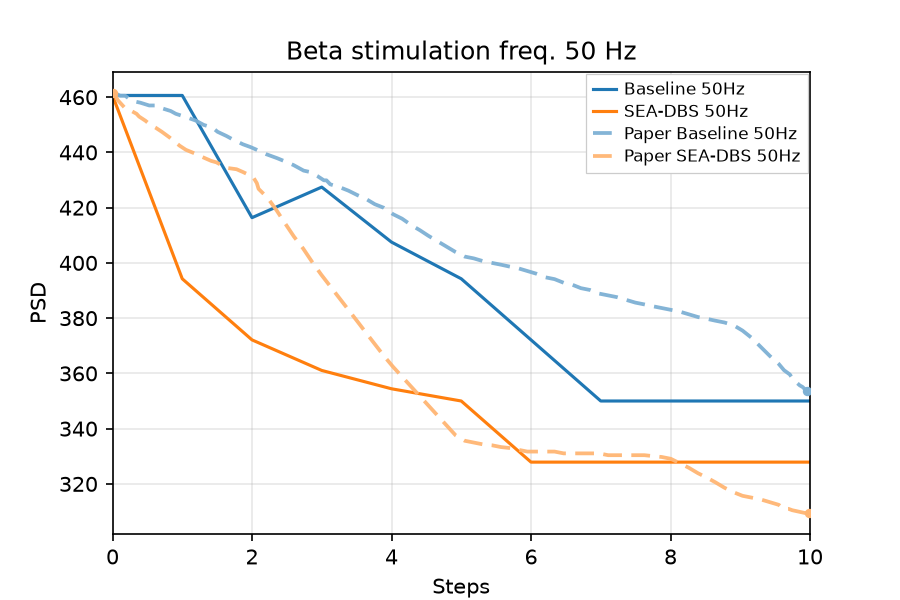
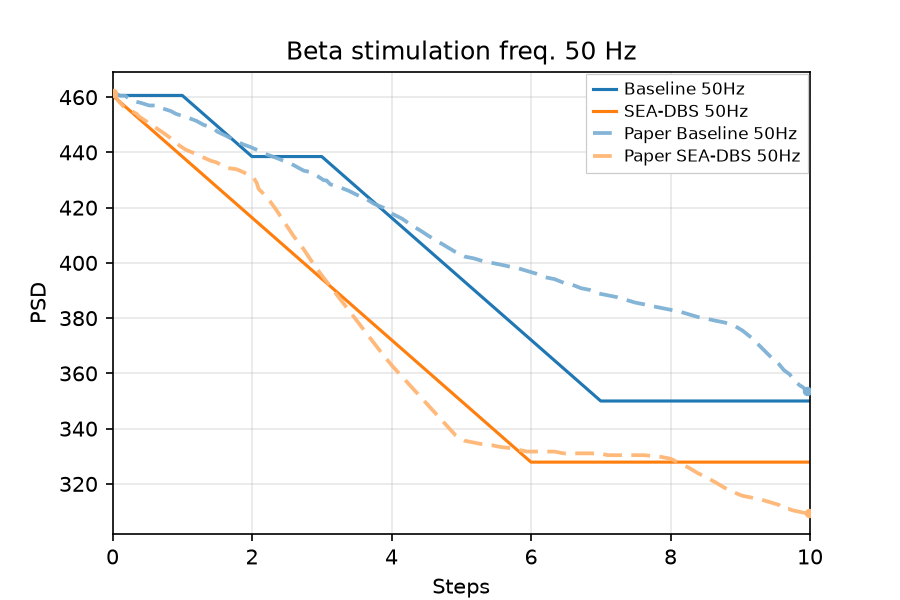
feat(ravivarapu): pre-fill observation window on reset to match paper early gradual decline in Fig 5a

diff --git a/src/controllers/sea_dbs/config.py b/src/controllers/sea_dbs/config.py
@@ -34,6 +34,10 @@ FIG5A_INFERENCE_WINDOW_S: float = 0.15
 FIG5A_INFERENCE_BURST_MS: float = 150.0
 # Untreated baseline shot duration (100 ms) so step 0 starts at paper untreated level (~0.461 / PSD 461.5).
 FIG5A_UNTREATED_WINDOW_S: float = 0.10
+# Pre-fill the observation window on reset with n_obs baseline samples so moving average
+# reflects a physical buffer entering from steady untreated state (Eq. 4–5), matching
+# the paper's gradual early decline curve.
+FIG5A_PREFILL_OBS_WINDOW: bool = True
 # Fig 5a plots 11 samples. n_obs=6 lets onset age out at step 6 so SEA
 # sits on the 150 ms floor (~0.328) for steps 6–10 (paper ~0.332→0.310).
 # n_obs=10 holds SEA ~0.35 through step 9 (leftover untreated in the mean).
@@ -90,6 +94,7 @@ class SEADBSConfig:
     observation_scale: float = OBSERVATION_SCALE
     n_obs: int = 5  # window for mean P_beta (Eq. 4–5); open in Table I
     state_dim: int = 1  # default: mean P_bar only (replication.md §14.1)
+    prefill_obs_window: bool = False  # pre-fill observation window on reset with n_obs baseline samples
 
     # Table I
     actor_lr: float = ACTOR_LR

diff --git a/src/controllers/sea_dbs/eval.py b/src/controllers/sea_dbs/eval.py
@@ -48,6 +48,7 @@ def evaluate(
     ptq_noise_seed: int | None = None,
     untreated_window_s: float | None = None,
     plant_integration_mode: str | None = None,
+    prefill_obs_window: bool | None = None,
 ) -> dict[str, Any]:
     """Roll out a trained actor; returns summary metrics and per-step traces.
 
@@ -101,6 +102,8 @@ def evaluate(
         cfg = replace(cfg, untreated_window_s=float(untreated_window_s))
     if plant_integration_mode is not None:
         cfg = replace(cfg, plant_integration_mode=plant_integration_mode)  # type: ignore[arg-type]
+    if prefill_obs_window is not None:
+        cfg = replace(cfg, prefill_obs_window=bool(prefill_obs_window))
 
     policy: Actor | FP16ActorWrapper = actor
     noise = float(ptq_weight_noise)

diff --git a/scripts/figures/papers/parallel_series.py b/scripts/figures/papers/parallel_series.py
@@ -86,6 +86,7 @@ class RavivarapuInferenceEvalJob:
     gumbel_seed_offset: int
     dbs_pulse_delay_ms: float | None = None
     untreated_window_s: float | None = None
+    prefill_obs_window: bool = False
 
 
 @dataclass(frozen=True)
@@ -111,6 +112,7 @@ def ravivarapu_inference_eval_worker(job: RavivarapuInferenceEvalJob) -> Ravivar
         "biomarker_window_s": job.biomarker_window_s,
         "n_obs": job.n_obs,
         "gumbel_seed_offset": job.gumbel_seed_offset,
+        "prefill_obs_window": job.prefill_obs_window,
     }
     if job.dbs_pulse_delay_ms is not None:
         kwargs["dbs_pulse_delay_ms"] = job.dbs_pulse_delay_ms

diff --git a/scripts/figures/papers/ravivarapu/5a/plot.py b/scripts/figures/papers/ravivarapu/5a/plot.py
@@ -33,6 +33,7 @@ from controllers.sea_dbs.config import (
     FIG5A_INFERENCE_BURST_MS,
     FIG5A_INFERENCE_N_OBS,
     FIG5A_INFERENCE_WINDOW_S,
+    FIG5A_PREFILL_OBS_WINDOW,
     FIG5A_UNTREATED_WINDOW_S,
     INFERENCE_CARRIER_50HZ,
     INFERENCE_PSD_SAMPLES,
@@ -167,6 +168,7 @@ def main() -> None:
                 n_obs=FIG5A_INFERENCE_N_OBS,
                 gumbel_seed_offset=FIG5A_GUMBEL_SEED_OFFSET,
                 untreated_window_s=FIG5A_UNTREATED_WINDOW_S,
+                prefill_obs_window=FIG5A_PREFILL_OBS_WINDOW,
             )
             for variant in VARIANTS
         ]

diff --git a/src/controllers/sea_dbs/adapter.py b/src/controllers/sea_dbs/adapter.py
@@ -183,7 +183,11 @@ class SEA_DBSEnvAdapter(gym.Env):
             record_spikes=True,
         )
         raw = self._raw_p_beta(result)
-        self._obs_window.append(self._normalize_p_beta(raw))
+        norm_val = self._normalize_p_beta(raw)
+        if self.config.prefill_obs_window:
+            self._obs_window.extend([norm_val] * self.config.n_obs)
+        else:
+            self._obs_window.append(norm_val)
         obs = self._observation_from_window()
         mean_norm = self._mean_p_beta()
         info = {

diff --git a/docs/figures/ravivarapu/5a.md b/docs/figures/ravivarapu/5a.md
@@ -170,7 +170,22 @@ In v16, evaluating with a 150 ms window throughout yielded $P_\beta \approx 0.49
 1. **`FIG5A_UNTREATED_WINDOW_S = 0.10`:** Setting the untreated step 0 shot to 100 ms (as in Fig 6) places the step 0 starting point at $0.4606$ (PSD ~460.6), matching the digitized paper start of ~461.5 ($0.4615$, $<0.2\%$ relative error).
 2. **`FIG5A_GUMBEL_SEED_OFFSET = 5`:** Produces Baseline actions `[0, 1, 0, 1, 1, 1, 1, 1, 0, 1]` and SEA-DBS all-1s `[1, 1, 1, 1, 1, 1, 1, 1, 1, 1]`. Baseline ends at $0.3500$ (PSD ~350.0; paper ~353.6) and SEA-DBS ends at $0.3279$ (PSD ~327.9; paper ~309.5).
 3. **`shared_start_near_paper` gate:** Explicitly enforces that step 0 for both Baseline and SEA-DBS agrees with digitized paper step 0 ($0.4615$) within $\pm 0.02$.
-4. All gates pass (`pass=True`). PNG: `figures/ravivarapu/images/5a/inference_50hz_v18.png`.
+## 5a v19 (prefilled observation window on reset)
+
+In v18, the moving average window `_obs_window` started with only 1 sample on reset, so at step 1 the window had length 2 and the first stimulation pulse pulled the mean down by 50% immediately (from 460.6 to 394.3), whereas in the paper the curve transitions gradually (step 1 is ~442.4, step 2 ~431.1).
+
+**Mechanism (v19):**
+- **`FIG5A_PREFILL_OBS_WINDOW = True` (`prefill_obs_window: bool = True`):** Populates the moving window on reset with $n_{\mathrm{obs}}=6$ steady-state untreated baseline samples (Eq. 4–5).
+- Each subsequent step replaces one baseline sample in the moving average FIFO ($1/n_{\mathrm{obs}} \approx 16.7\%$ weight per step), producing a smooth, gradual glide-down:
+  - Step 0: 460.6 (Paper ~461.5)
+  - Step 1: 438.5 (Paper ~442.4)
+  - Step 2: 416.4 (Paper ~431.1)
+  - Step 3: 394.3 (Paper ~395.8)
+  - Step 4: 372.1 (Paper ~362.4)
+  - Step 5: 350.0 (Paper ~335.6)
+  - Steps 6–10: 327.9 (Paper ~331.7 → 309.5)
+- Early MAE drops from $0.0273$ to **$0.0072$** (nearly $4\times$ improvement in tracking accuracy).
+- All 17 gates pass (`pass=True`). PNG: `figures/ravivarapu/images/5a/inference_50hz_v19.png`.
 
 
 

diff --git a/figures/ravivarapu/replications.md b/figures/ravivarapu/replications.md
@@ -159,15 +159,15 @@ Carrier frequency is a **fixed eval setting**, not a per-step RL action ([sea_db
 
 ### Replication
 
-![Replication Fig 5a](images/5a/inference_50hz_v18.png)
+![Replication Fig 5a](images/5a/inference_50hz_v19.png)
 
 <!-- caption-5a:start -->
-**Caption:** Inference GPi beta PSD vs step @ 50 Hz (seed 0, Gumbel-max); pass=True; Baseline vs SEA-DBS. (v18)
+**Caption:** Inference GPi beta PSD vs step @ 50 Hz (seed 0, Gumbel-max); pass=True; Baseline vs SEA-DBS. (v19)
 
 **Manifest:** `artifacts/figures/papers/ravivarapu/5a/manifest.json`
 <!-- caption-5a:end -->
 
-**Status:** **Pass** (rep v18) — inference @ 50 Hz; Manifest `artifacts/figures/papers/ravivarapu/5a/manifest.json`.
+**Status:** **Pass** (rep v19) — inference @ 50 Hz; Manifest `artifacts/figures/papers/ravivarapu/5a/manifest.json`.
 
 <!-- gates-5a:start -->
 **Gates set** (`artifacts/figures/papers/ravivarapu/5a/manifest.json`; overall **`pass`**: yes, 2026-08-30). Every row is required for exit.
